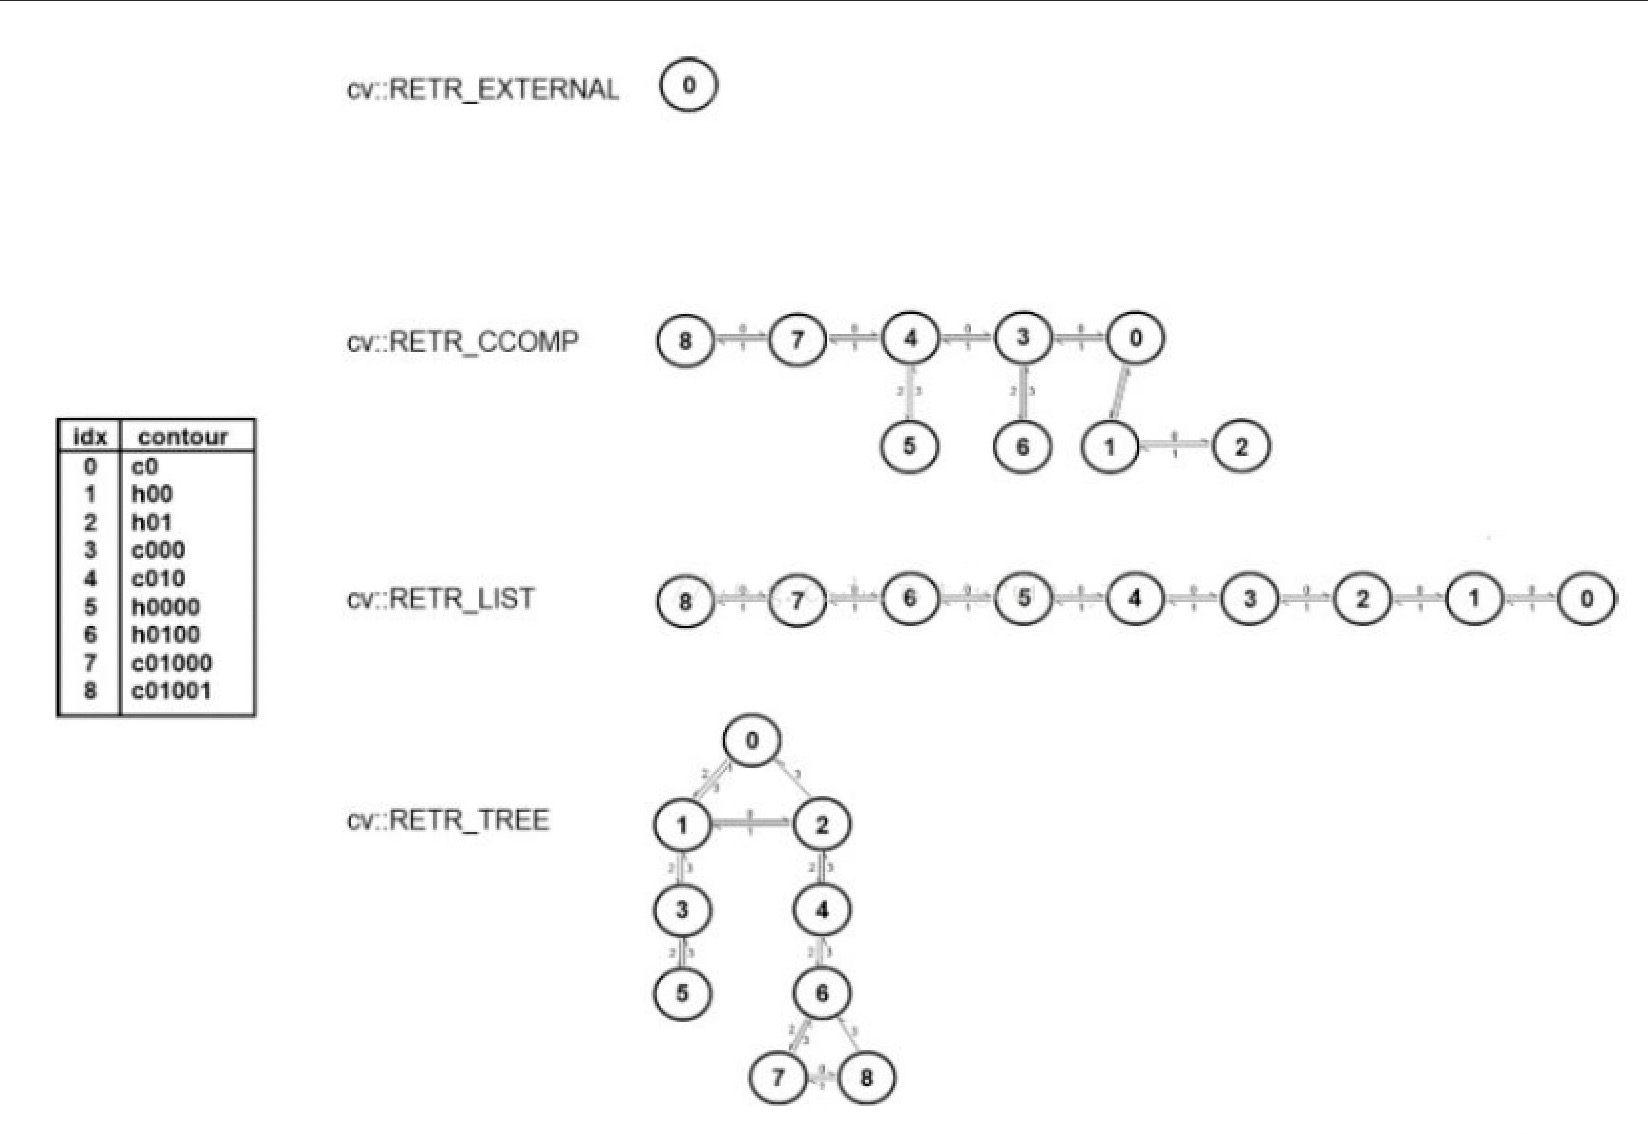
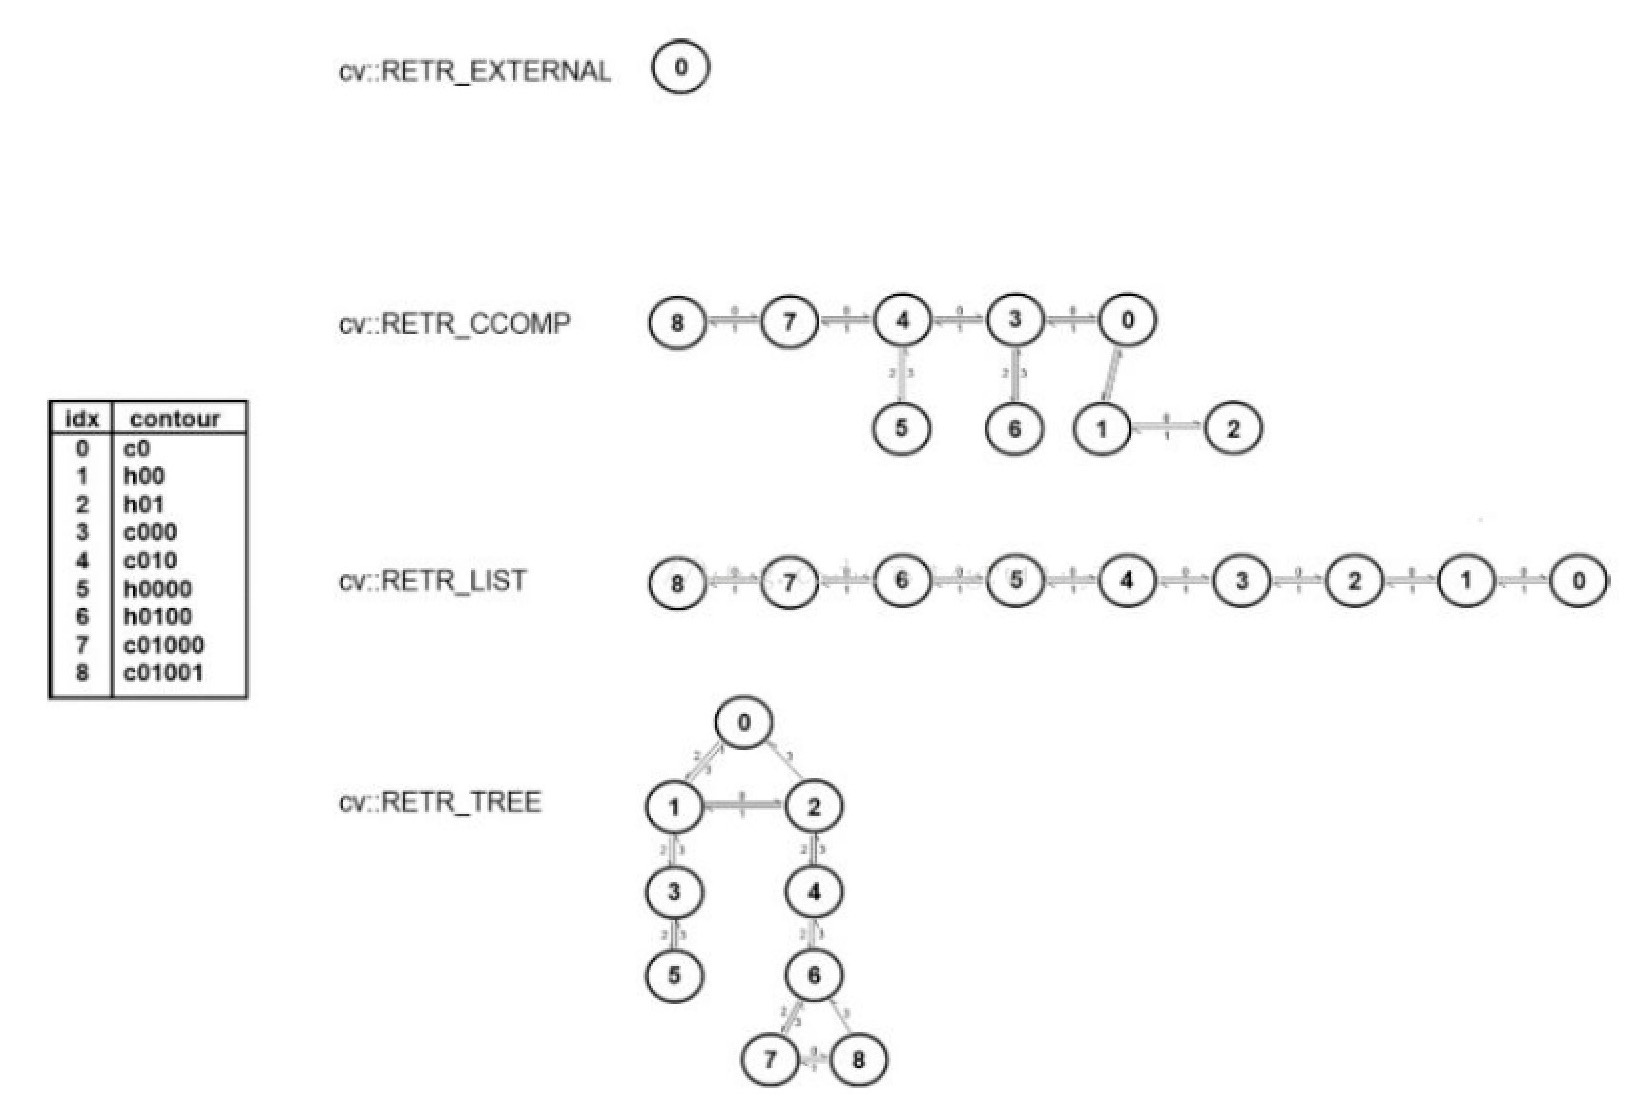
update: ai 10.md

diff --git a/contents/10.md b/contents/10.md
@@ -181,7 +181,7 @@
 4 ）**OpenCV提供了轮廓的不同表达方式**
 
 <div align="left" style="margin-left:50px;">
-    <img width="800" src="./screenshot/2.42.jpg">
+    <img width="600" src="./screenshot/2.42.jpg">
 </div>
 
 5 ) **OpenCV的相关函数实现**
